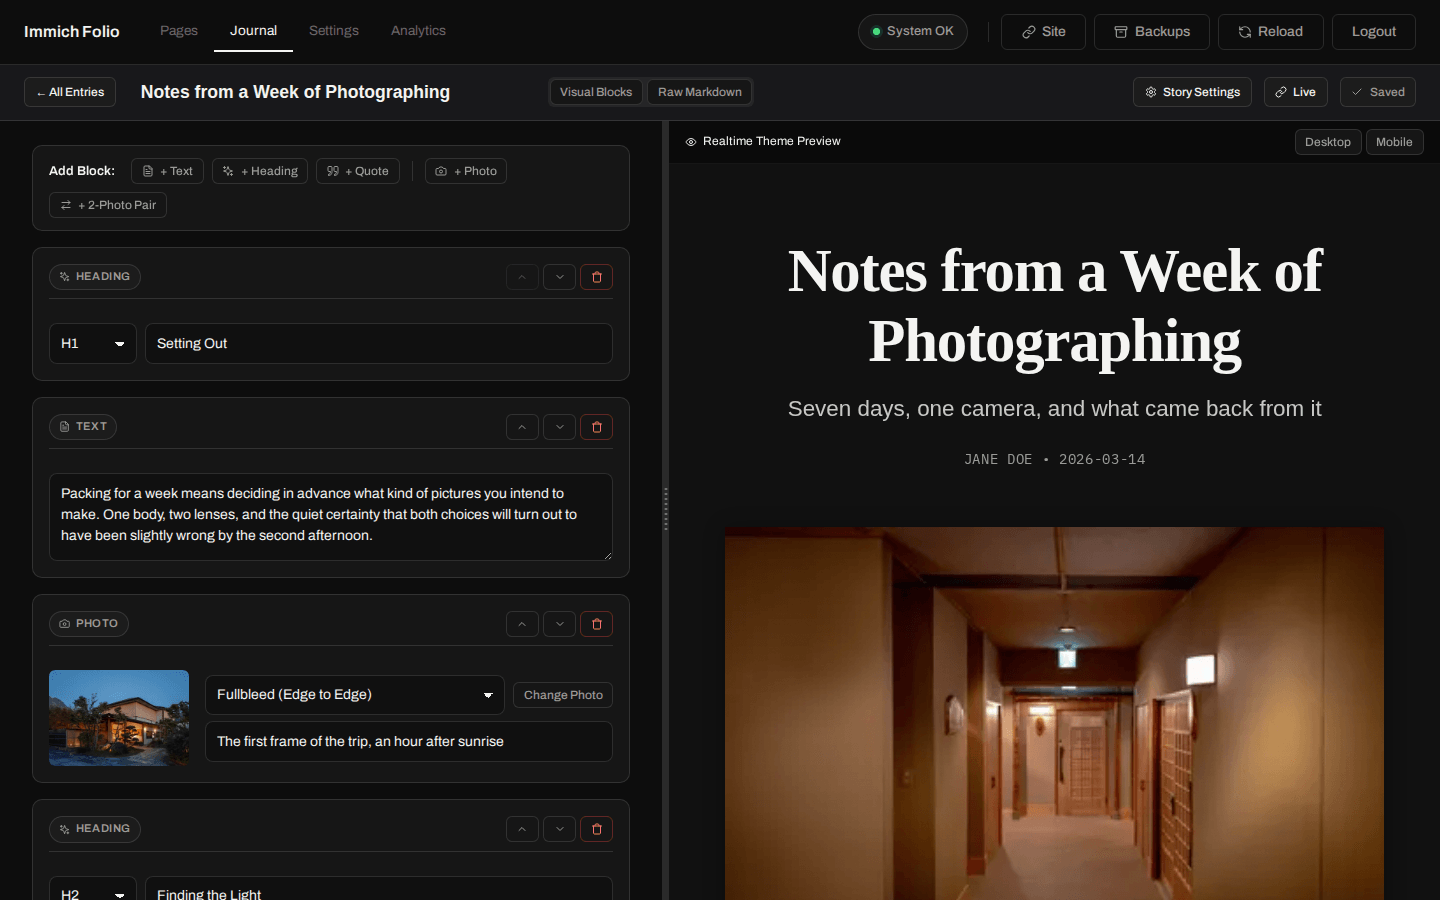
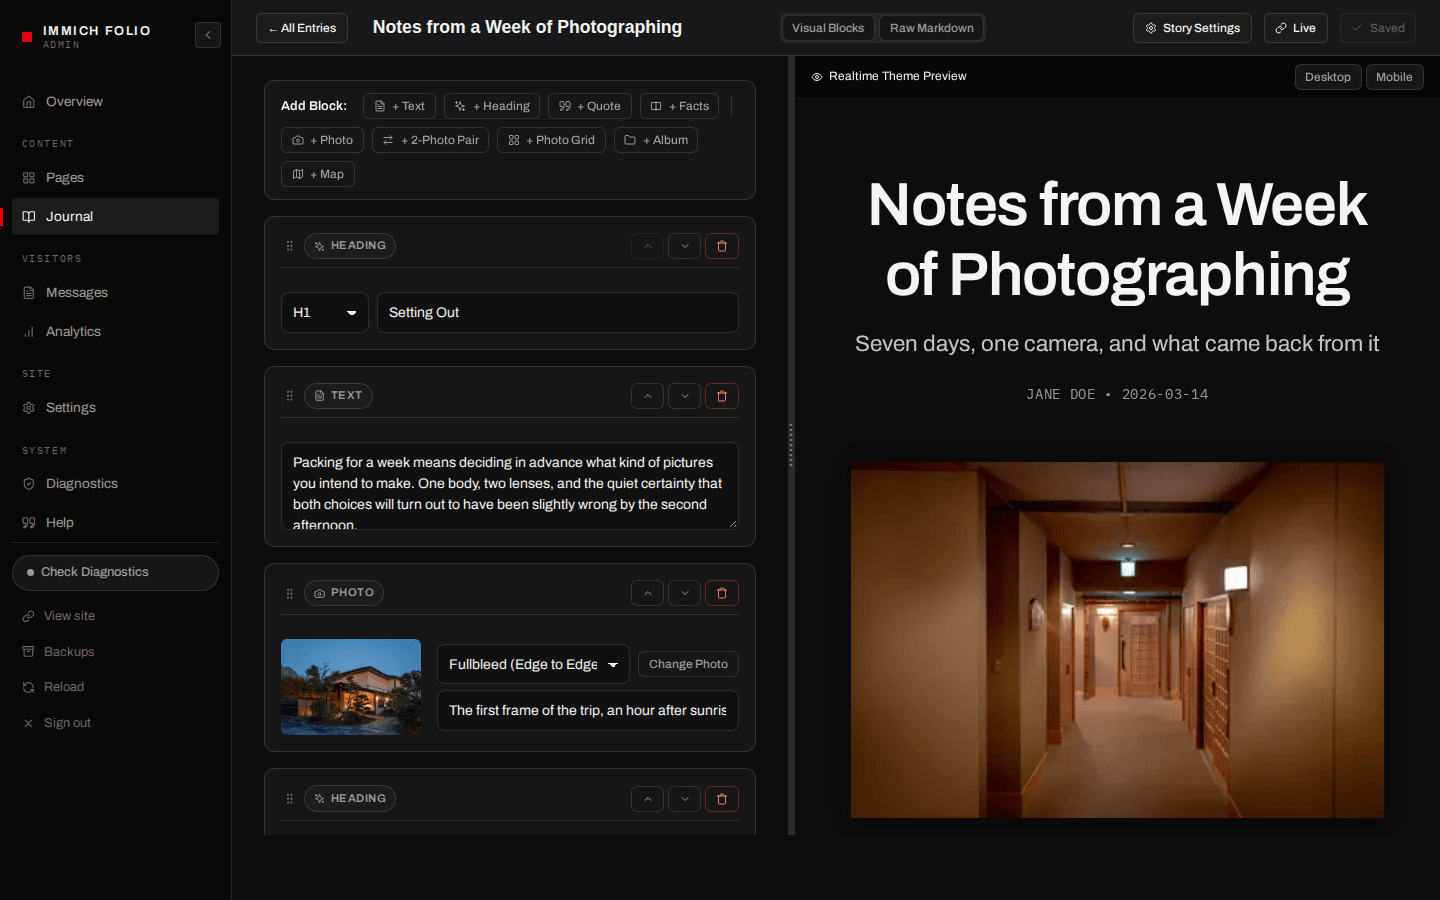
docs: admin screenshots for the redesigned panel
Re-captures the admin and journal studio shots after the sidebar,
page builder and switch redesign (#712-#721), and rebuilds header.png
from the new page builder shot.

scripts/screenshots.ts follows the new panel: it waits for the sidebar
instead of the old tabs, opens the page builder at /admin/pages with a
subpage selected, and reaches Add Album through the standalone-albums
row. The overview is deliberately not captured: its attention list is
the live doctor and names albums and IDs. The album picker shot is
kept from before, since a fresh one lists the operator's private albums.

diff --git a/scripts/screenshots.ts b/scripts/screenshots.ts
@@ -477,20 +477,25 @@ async function captureAdmin(browser: Browser): Promise<void> {
     await page.locator('.admin-login-card').waitFor({ timeout: 15000 });
     await capture(page, 'admin-login');
 
+    // Login lands on the overview (#712). It is not captured: its "needs
+    // attention" list is the live doctor, which names albums, IDs and secrets'
+    // lengths — nothing for a public screenshot.
     await adminLogin(page);
+
+    // The page builder is a structure list and a panel (#717): open the first
+    // subpage, so the panel shows a page with its albums rather than the
+    // empty state.
+    await page.goto(`${BASE_URL}/admin/pages`, { waitUntil: 'networkidle' });
+    await page.locator('.pb-tree').waitFor({ timeout: 20000 });
+    const firstSubpage = page.locator('.pb-tree .pb-group').nth(1).locator('.pb-row-main').first();
+    if ((await firstSubpage.count()) > 0) await firstSubpage.click();
     await page.waitForTimeout(2500);
     await waitForImages(page);
     await capture(page, 'admin-page-builder');
 
     await captureAlbumPicker(page);
 
-    // Reload rather than trusting Escape to have closed the picker — a modal
-    // still on screen swallows the click on the settings tab.
-    await page.reload({ waitUntil: 'networkidle' });
-    await page.locator('.admin-tabs').waitFor({ timeout: 20000 });
-    await page.locator('.admin-tab', { hasText: 'Settings' }).first().click();
-    await page.waitForTimeout(1500);
-    await capture(page, 'admin-settings');
+    await capturePage(page, '/admin/settings/general', 'admin-settings', 1500);
   });
 }
 
@@ -634,7 +639,7 @@ async function adminLogin(page: Page): Promise<void> {
   await page.goto(`${BASE_URL}/admin`, { waitUntil: 'networkidle' });
   await page.locator('.admin-login-card input[type="password"]').fill(ADMIN_PASSWORD!);
   await page.locator('.admin-login-card button[type="submit"]').click();
-  await page.locator('.admin-tabs').waitFor({ timeout: 20000 });
+  await page.locator('.admin-sidebar').waitFor({ timeout: 20000 });
 }
 
 /**
@@ -853,6 +858,12 @@ see the frames on a proper screen before deciding what this is about.
 
 /** Best effort: the picker is a modal behind a button whose label may change. */
 async function captureAlbumPicker(page: Page): Promise<void> {
+  // "Add album" lives in the standalone-albums panel of the page builder.
+  const standalone = page.locator('.pb-row-solo').last();
+  if ((await standalone.count()) > 0) {
+    await standalone.click();
+    await page.waitForTimeout(800);
+  }
   const trigger = page.getByRole('button', { name: /add album/i }).first();
   if ((await trigger.count()) === 0) {
     console.log('  ⏭  No "Add album" button found — skipping the album picker shot.');

diff --git a/README.md b/README.md
@@ -330,11 +330,11 @@ own password, separate from any album passwords, and writes straight to
 
 <p align="center">
   <img src="docs/screenshots/admin-login.png" width="49%" alt="Admin panel login screen" />
-  <img src="docs/screenshots/admin-page-builder.png" width="49%" alt="Visual page builder with hero images, standalone albums and subpages" />
+  <img src="docs/screenshots/admin-page-builder.png" width="49%" alt="Page builder: the site structure on the left, the selected page with its albums on the right" />
 </p>
 <p align="center">
   <img src="docs/screenshots/admin-album-picker.png" width="49%" alt="Album picker listing shared Immich albums with photo counts" />
-  <img src="docs/screenshots/admin-settings.png" width="49%" alt="Settings editor with site identity and feature toggles" />
+  <img src="docs/screenshots/admin-settings.png" width="49%" alt="Settings editor: sections on the left, site identity and feature switches grouped by meaning" />
 </p>
 <p align="center"><em>Login · page builder · album picker · settings editor</em></p>
 
